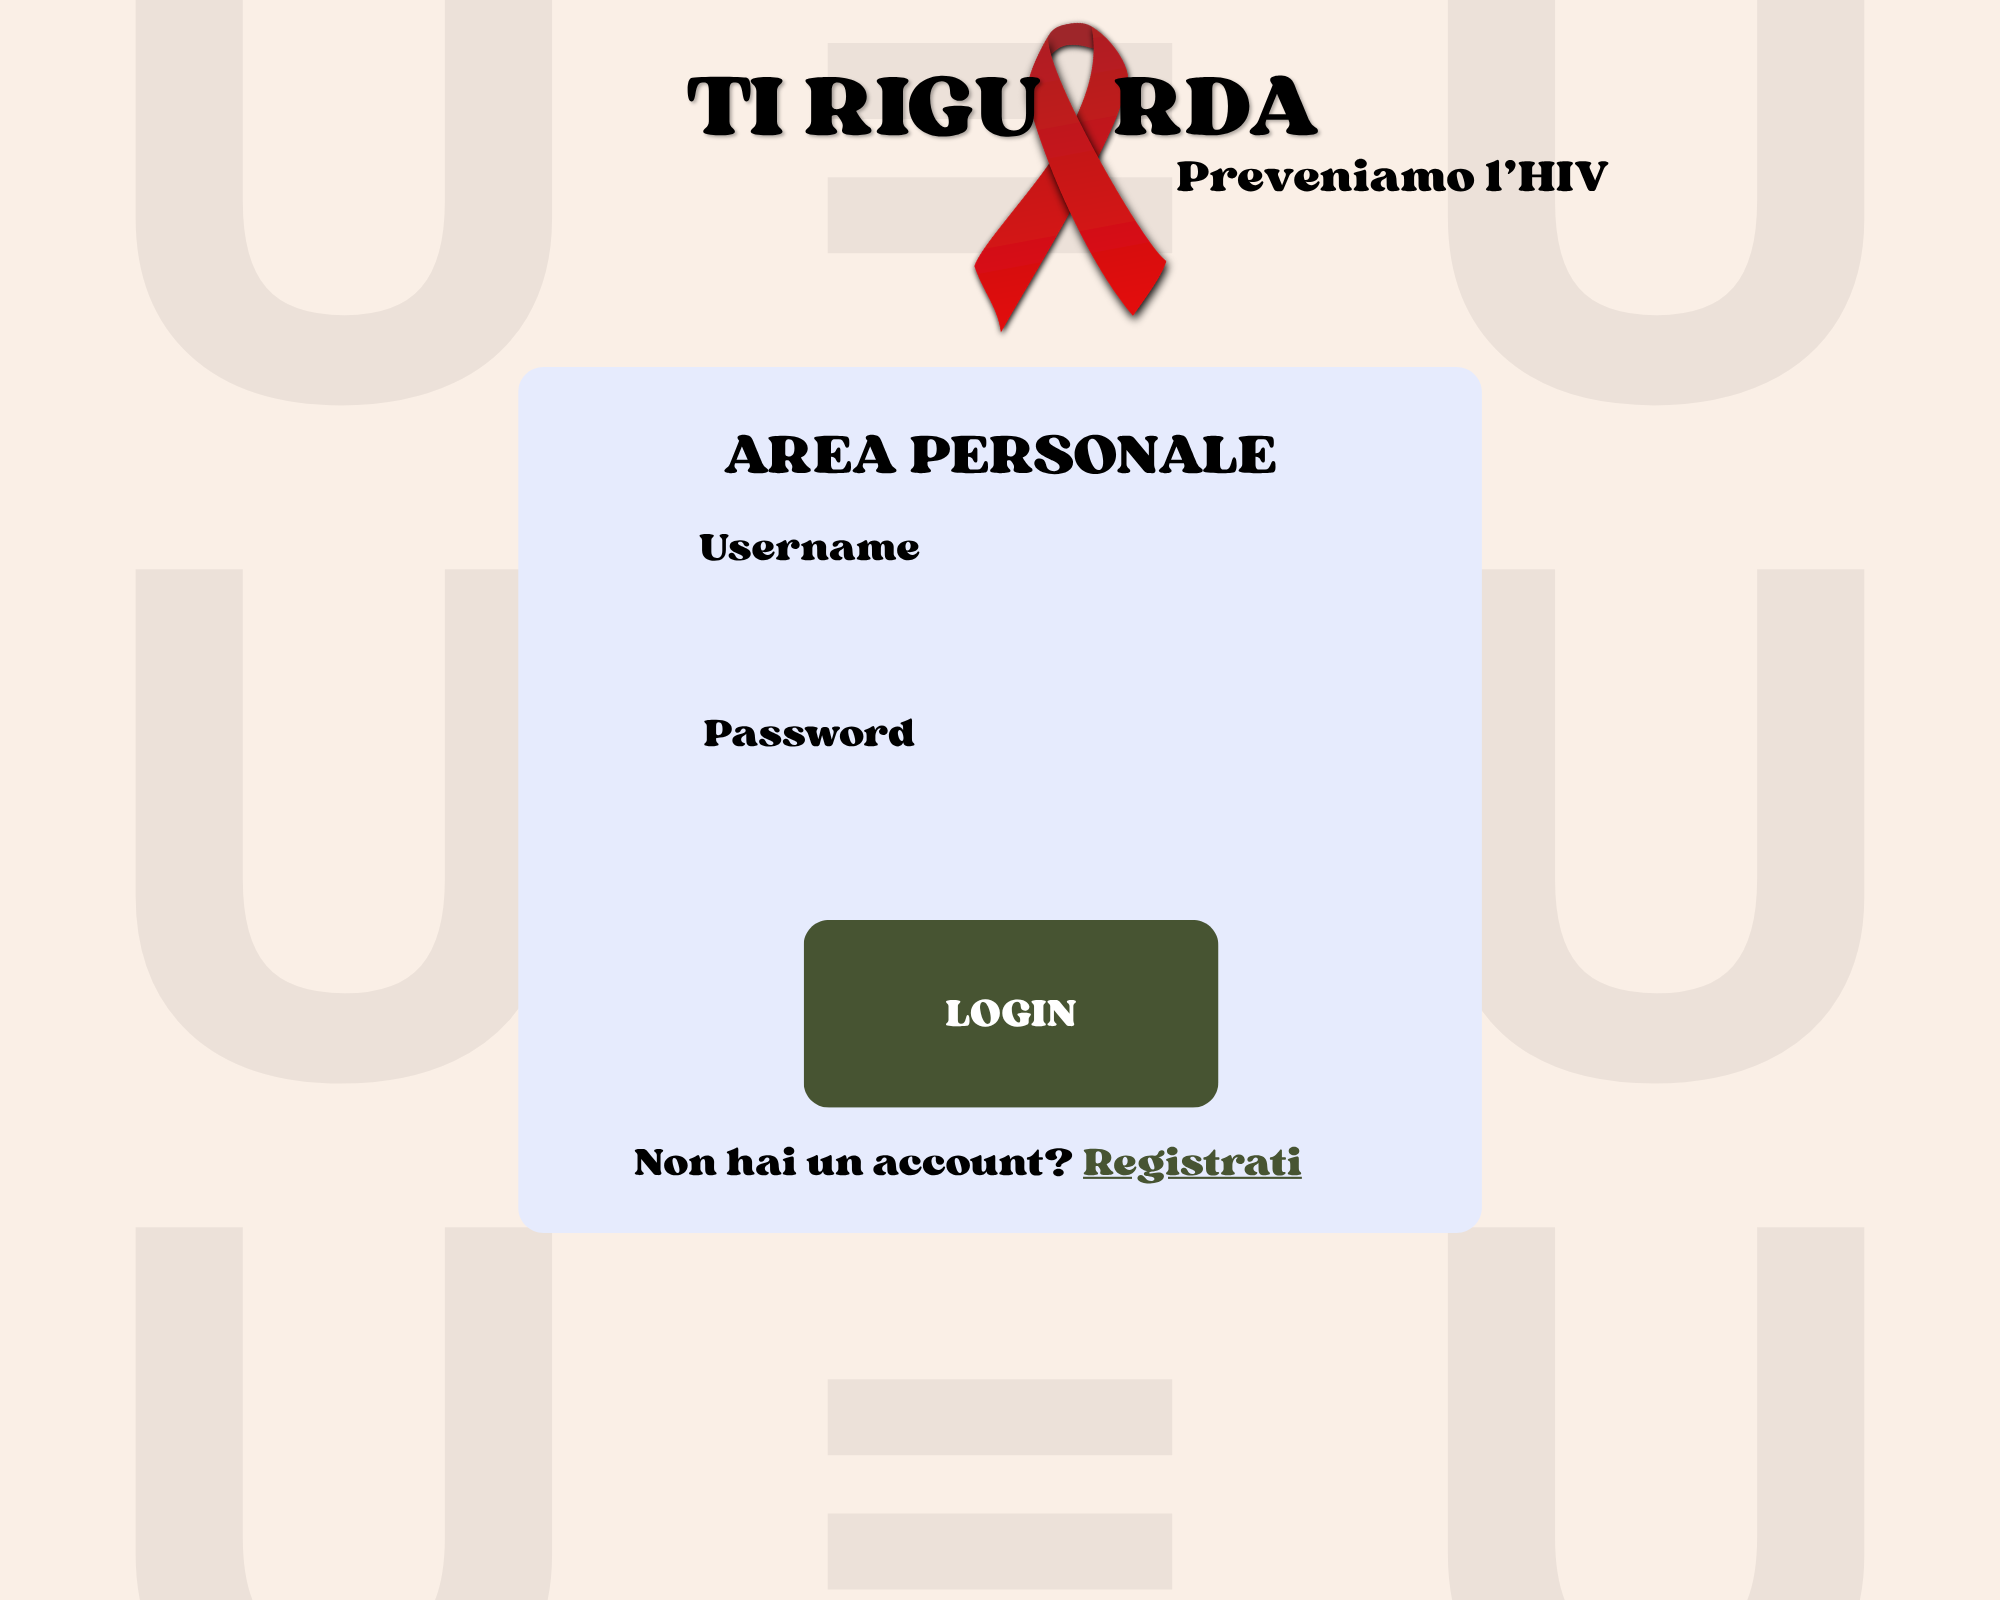
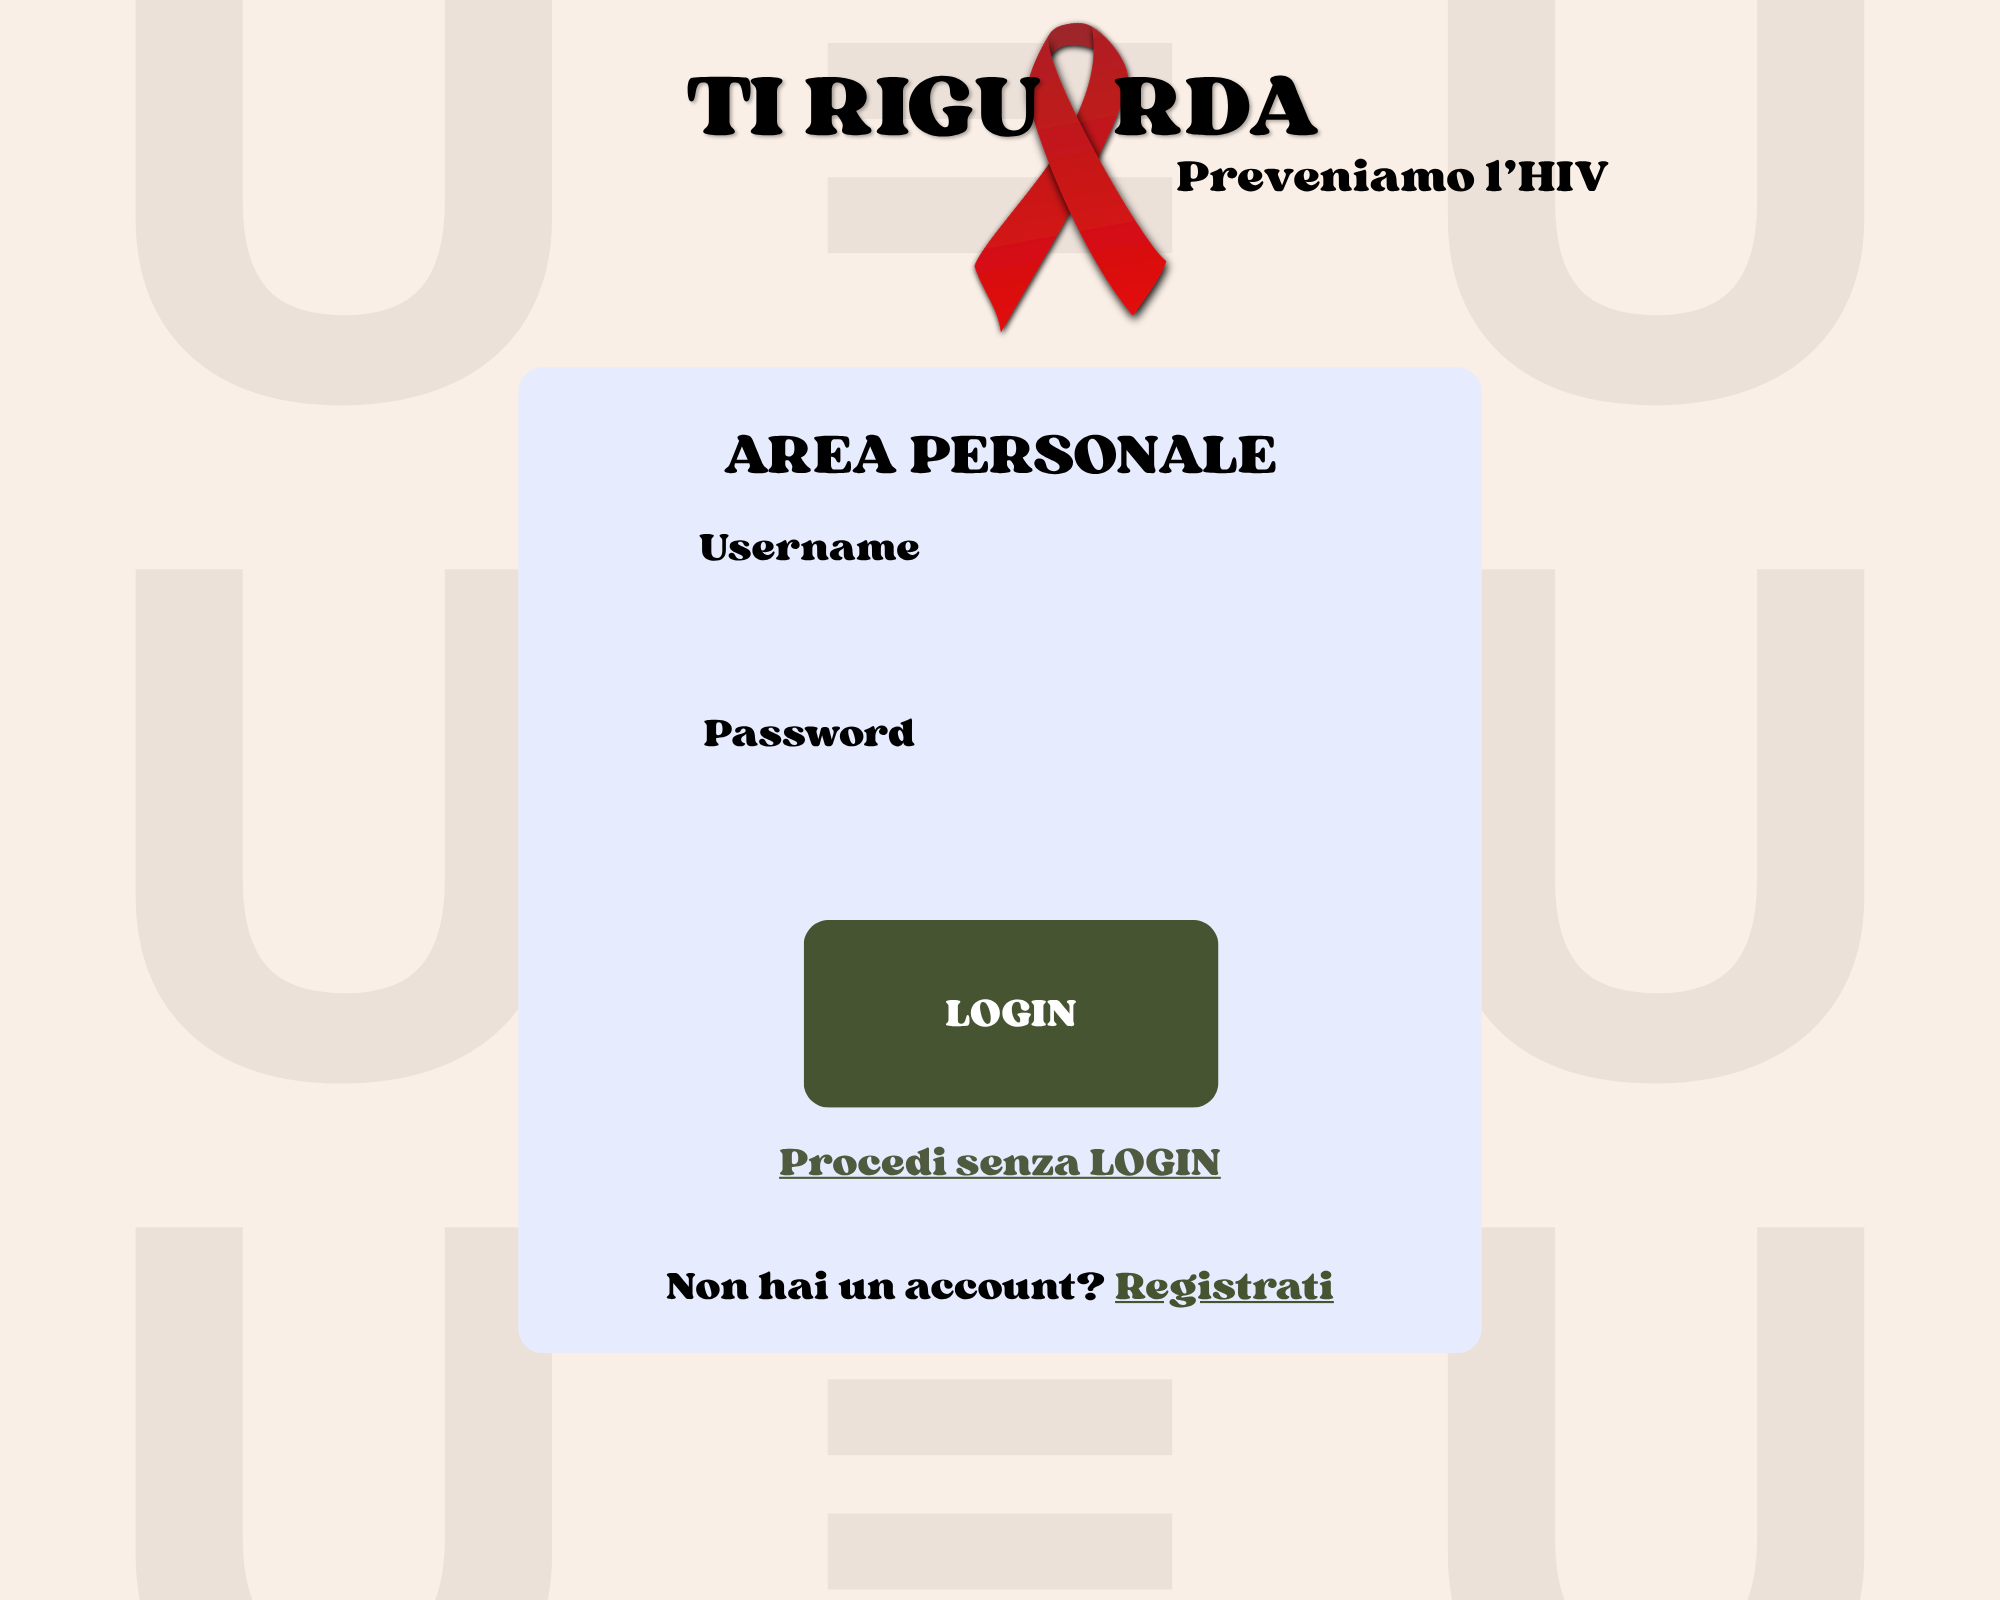
FIX questionario graphic

diff --git a/src/main/java/it/tiriguarda/controller/graphic/MenuPrincipaleGraphicController.java b/src/main/java/it/tiriguarda/controller/graphic/MenuPrincipaleGraphicController.java
@@ -1,5 +1,8 @@
 package it.tiriguarda.controller.graphic;
 
+import it.tiriguarda.domain.Utente;
+import it.tiriguarda.exception.UtenteNonLoggatoException;
+import it.tiriguarda.service.SessionManager;
 import javafx.event.ActionEvent;
 import javafx.fxml.FXML;
 import javafx.scene.control.Button;
@@ -15,30 +18,51 @@ public class MenuPrincipaleGraphicController {
 	@FXML private Button infoButton;
 	@FXML private Button logoutButton;
 
+	Utente utenteCorrente = SessionManager.getInstance().getUtenteLoggato();
 	
 	@FXML
 	private void onTestButton(ActionEvent event) {
-		ViewDispatcher.mostraTest();
+		if (utenteCorrente == null) {
+	        ViewDispatcher.mostraErrore("Funzionalita' riservata ad utenti registrati");
+	    } else {
+	    	ViewDispatcher.mostraTest();	
+	    }
 	}
 	
 	@FXML
 	private void onProfiloButton(ActionEvent event) {
-		ViewDispatcher.mostraProfilo();
+		if (utenteCorrente == null) {
+	        ViewDispatcher.mostraErrore("Funzionalita' riservata ad utenti registrati");
+	    } else {
+	    	ViewDispatcher.mostraProfilo();
+	    	}
 	}
 	
 	@FXML
 	private void onRiepilogoButton(ActionEvent event) {
-		ViewDispatcher.mostraRiepilogo();
+		if (utenteCorrente == null) {
+	        ViewDispatcher.mostraErrore("Funzionalita' riservata ad utenti registrati");
+	    } else {
+			ViewDispatcher.mostraRiepilogo();
+			}
 	}
 	
 	@FXML
 	private void onRegistraRapportoButton(ActionEvent event) {
-		ViewDispatcher.mostraRegistraRapporto();
+		if (utenteCorrente == null) {
+	        ViewDispatcher.mostraErrore("Funzionalita' riservata ad utenti registrati");
+	    } else {
+	    	ViewDispatcher.mostraRegistraRapporto();
+	    	}
 	}
 	
 	@FXML
 	private void onPrEPButton(ActionEvent event) {
-		ViewDispatcher.mostraPrEP();
+		if (utenteCorrente == null) {
+	        ViewDispatcher.mostraErrore("Funzionalita' riservata ad utenti registrati");
+	    } else {
+	    	ViewDispatcher.mostraPrEP();
+	    	}
 	}
 	
 	@FXML

diff --git a/src/main/java/it/tiriguarda/controller/graphic/QuestionarioRisultatoGraphicController.java b/src/main/java/it/tiriguarda/controller/graphic/QuestionarioRisultatoGraphicController.java
@@ -1,8 +1,6 @@
 package it.tiriguarda.controller.graphic;
 
 import it.tiriguarda.domain.LivelloRischio;
-import it.tiriguarda.domain.Utente;
-import it.tiriguarda.service.SessionManager;
 import javafx.event.ActionEvent;
 import javafx.fxml.FXML;
 import javafx.scene.control.Button;
@@ -45,11 +43,6 @@ public class QuestionarioRisultatoGraphicController {
 
     @FXML
     public void ongoback(ActionEvent event) {
-    	Utente utenteCorrente = SessionManager.getInstance().getUtenteLoggato();
-		if (utenteCorrente == null) {
-			ViewDispatcher.mostraLogin();
-		} else {
-			ViewDispatcher.mostraMenuPrincipale();
-			}
+		ViewDispatcher.mostraMenuPrincipale();
     }
 }

diff --git a/src/main/java/it/tiriguarda/controller/graphic/LoginGraphicController.java b/src/main/java/it/tiriguarda/controller/graphic/LoginGraphicController.java
@@ -21,6 +21,7 @@ public class LoginGraphicController {
 	private TextField usernameField;
 	@FXML 
 	private PasswordField passwordField;
+	@FXML private Button noLoginButton;
 	
 	
 	@FXML
@@ -51,4 +52,8 @@ public class LoginGraphicController {
 			ViewDispatcher.mostraRegistrazione();
 	 	}
 	 
+	 @FXML
+	 public void onNoLoginButton(ActionEvent event) {
+		 ViewDispatcher.mostraMenuPrincipale();
+	 }
 }
